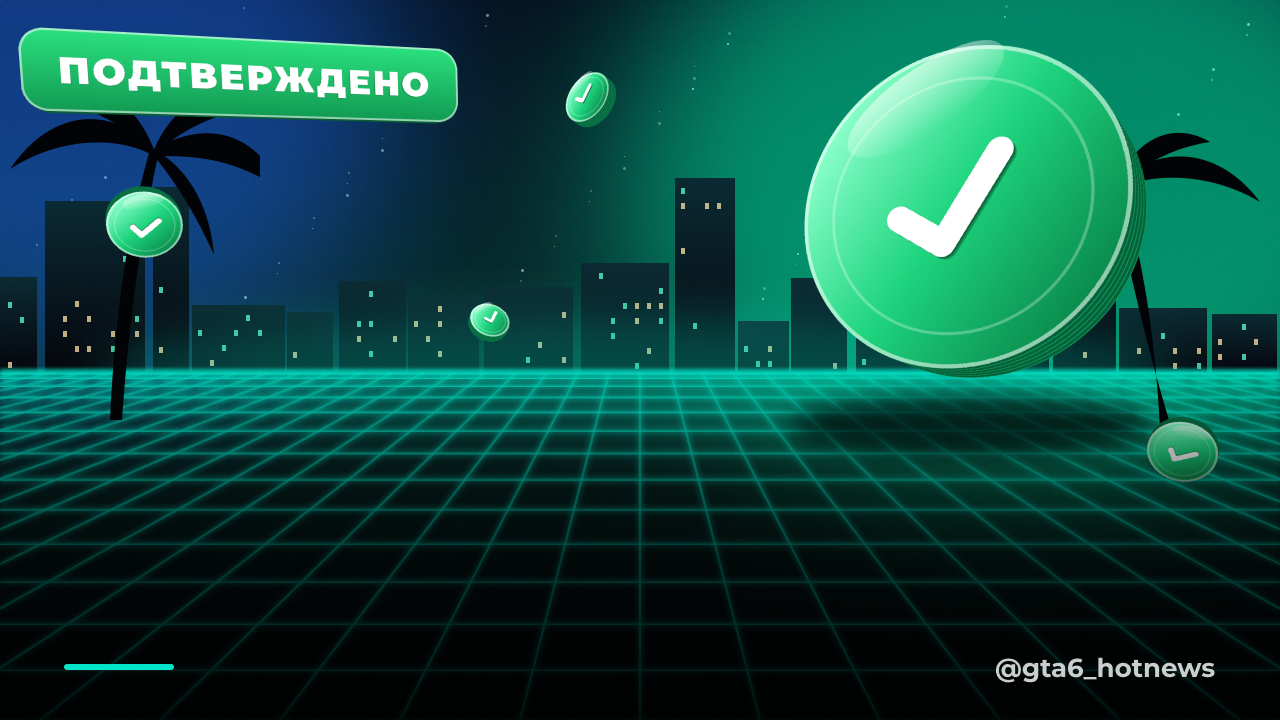
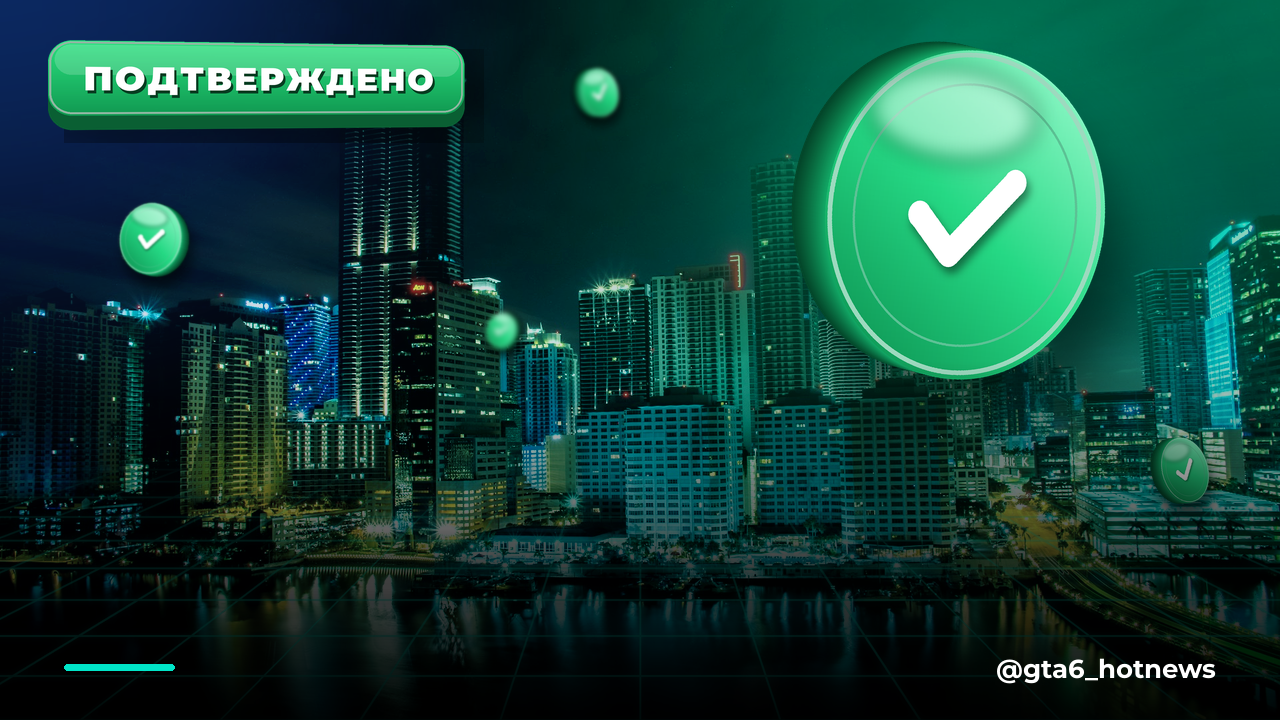
Заставки с настоящим ночным Майами (Unsplash) и 3D-монетами, генератор tools/make_templates.py

diff --git a/tools/make_templates.py b/tools/make_templates.py
@@ -1,0 +1,332 @@
+"""Генератор фонов-заставок для карточек: настоящее фото ночного Майами (прототип Вайс-Сити)
++ цветокоррекция под тип новости + объёмная монета-значок, плашка, неоновая сетка.
+
+Запуск:  python tools/make_templates.py            → assets/templates/{confirmed,rumor,official}.png
+         python tools/make_templates.py --preview  → ещё и out/templates_preview.png с примером заголовка
+
+Фото — Unsplash (бесплатная лицензия, см. assets/bg/SOURCES.md). Заголовок на карточку пишет бот (bot/card.py),
+поэтому низ кадра оставляем тёмным и пустым.
+"""
+from __future__ import annotations
+
+import math
+import sys
+from pathlib import Path
+
+from PIL import Image, ImageChops, ImageDraw, ImageEnhance, ImageFilter, ImageFont, ImageOps
+
+ROOT = Path(__file__).resolve().parents[1]
+W, H = 1280, 720
+S = 3  # суперсэмплинг: рисуем в 3 раза крупнее и уменьшаем — края гладкие
+HORIZON = 455  # где у фото примерно линия воды (после кадрирования)
+
+THEMES = {
+    "confirmed": dict(
+        photo="miami_teal.jpg", y_offset=40, zoom=1.0,
+        duo=("020C10", "0E8F7A", "D8FFF4"), duo_mix=0.45,
+        glow_a="00E5A0", glow_b="1E6BFF", grid="00E5C8",
+        face=("A6FFD6", "26D985", "0A8A4C"), side="05613A", rim="13A866", icon="check",
+        badge=("2BE07F", "119A52"), badge_side="0A5F33", label="ПОДТВЕРЖДЕНО"),
+    "rumor": dict(
+        photo="miami_sunset.jpg", y_offset=150, zoom=1.0,
+        duo=("12040F", "C2386E", "FFD9A8"), duo_mix=0.5,
+        glow_a="FF7A00", glow_b="FF2E88", grid="FF3D7F",
+        face=("FFDCA0", "FF8A1E", "D9480F"), side="8A2E00", rim="C9500F", icon="q",
+        badge=("FF9A3C", "E8590C"), badge_side="8A3200", label="СЛУХ"),
+    "official": dict(
+        photo="miami_brickell.jpg", y_offset=400, zoom=1.45,
+        duo=("0A0703", "A07814", "FFF2C6"), duo_mix=0.55,
+        glow_a="FFC83D", glow_b="6C4CFF", grid="FFD166",
+        face=("FFF6CC", "F5C542", "B07A06"), side="6B4A00", rim="A97A0A", icon="star",
+        badge=("FFD95A", "D49B09"), badge_side="6E4E02", label="ОФИЦИАЛЬНО"),
+}
+
+
+def rgb(h: str) -> tuple[int, int, int]:
+    return tuple(int(h[i:i + 2], 16) for i in (0, 2, 4))
+
+
+def font(size: int, variation: str = "Black") -> ImageFont.FreeTypeFont:
+    f = ImageFont.truetype(str(ROOT / "assets/fonts/Montserrat-Variable.ttf"), size)
+    try:
+        f.set_variation_by_name(variation)
+    except Exception:
+        pass
+    return f
+
+
+def lin_gradient(size, colors, angle_deg=135) -> Image.Image:
+    """Линейный градиент по нескольким цветам под углом."""
+    w, h = size
+    a = math.radians(angle_deg)
+    dx, dy = math.cos(a), math.sin(a)
+    small = Image.new("RGB", (64, 64))
+    px = small.load()
+    stops = [rgb(c) for c in colors]
+    for y in range(64):
+        for x in range(64):
+            t = ((x / 63 - 0.5) * dx + (y / 63 - 0.5) * dy) / (abs(dx) * 0.5 + abs(dy) * 0.5) * 0.5 + 0.5
+            t = min(1, max(0, t)) * (len(stops) - 1)
+            i = min(int(t), len(stops) - 2)
+            f = t - i
+            px[x, y] = tuple(int(stops[i][k] + (stops[i + 1][k] - stops[i][k]) * f) for k in range(3))
+    return small.resize((w, h), Image.BICUBIC)
+
+
+def radial_glow(size, center, radius, color, alpha) -> Image.Image:
+    layer = Image.new("RGBA", size, (0, 0, 0, 0))
+    d = ImageDraw.Draw(layer)
+    cx, cy = center
+    d.ellipse((cx - radius, cy - radius * 0.8, cx + radius, cy + radius * 0.8), fill=rgb(color) + (alpha,))
+    return layer.filter(ImageFilter.GaussianBlur(radius * 0.45))
+
+
+# ---------- фон: фото + цветокоррекция ----------
+def background(th: dict) -> Image.Image:
+    photo = Image.open(ROOT / "assets/bg" / th["photo"]).convert("RGB")
+    scale = W / photo.width * th["zoom"]
+    photo = photo.resize((round(photo.width * scale), round(photo.height * scale)), Image.LANCZOS)
+    x0 = (photo.width - W) // 2
+    img = photo.crop((x0, th["y_offset"], x0 + W, th["y_offset"] + H))
+    # «дуотон»: яркость фото → градиент цветов темы, смешиваем с оригиналом (реализм + единый стиль)
+    lum = ImageOps.grayscale(img)
+    lum = ImageOps.autocontrast(lum, cutoff=1)
+    dark, mid, light = (rgb(c) for c in th["duo"])
+    luts = []
+    for k in range(3):
+        lut = []
+        for v in range(256):
+            t = v / 255
+            if t < 0.5:
+                lut.append(int(dark[k] + (mid[k] - dark[k]) * t * 2))
+            else:
+                lut.append(int(mid[k] + (light[k] - mid[k]) * (t - 0.5) * 2))
+        luts.append(lut)
+    duo = Image.merge("RGB", [lum.point(luts[k]) for k in range(3)])
+    img = Image.blend(img, duo, th["duo_mix"])
+    img = ImageEnhance.Contrast(img).enhance(1.12)
+    img = ImageEnhance.Color(img).enhance(1.25)
+    img = img.convert("RGBA")
+    # цветные свечения (как неон над городом)
+    for glow in (radial_glow((W, H), (950, 120), 420, th["glow_a"], 120),
+                 radial_glow((W, H), (80, 40), 380, th["glow_b"], 100)):
+        img = Image.alpha_composite(img, glow)
+    return img
+
+
+def neon_grid(color: str) -> Image.Image:
+    """Неоновая сетка на воде: линии сходятся к точке на горизонте, к горизонту — тают."""
+    layer = Image.new("RGBA", (W * S, H * S), (0, 0, 0, 0))
+    d = ImageDraw.Draw(layer)
+    c = rgb(color)
+    vx, vy = W * S // 2, (HORIZON - 160) * S
+    top, bottom = HORIZON * S, H * S
+    for i in range(-30, 31):
+        bx = vx + i * 140 * S
+        x_top = vx + (bx - vx) * (top - vy) / (bottom - vy)
+        d.line((x_top, top, bx, bottom), fill=c + (255,), width=2 * S)
+    for k in range(1, 13):
+        y = top + (bottom - top) * (k / 12) ** 2.1
+        d.line((0, y, W * S, y), fill=c + (255,), width=2 * S)
+    layer = layer.resize((W, H), Image.LANCZOS)
+    fade = Image.new("L", (1, H))
+    for y in range(H):
+        fade.putpixel((0, y), 0 if y < HORIZON else int(150 * min(1, (y - HORIZON) / 200)))
+    alpha = ImageChops.multiply(layer.getchannel("A"), fade.resize((W, H)))
+    layer.putalpha(alpha)
+    glow = layer.filter(ImageFilter.GaussianBlur(4))
+    return Image.alpha_composite(glow, layer)
+
+
+# ---------- объёмная монета ----------
+def icon_layer(kind: str, size: int) -> Image.Image:
+    im = Image.new("RGBA", (size, size), (0, 0, 0, 0))
+    d = ImageDraw.Draw(im)
+    s = size / 100
+    if kind == "check":
+        d.line([(24 * s, 52 * s), (43 * s, 70 * s), (77 * s, 32 * s)], fill="white", width=int(13 * s), joint="curve")
+        for x, y in ((24, 52), (77, 32)):
+            r = 6.5 * s
+            d.ellipse((x * s - r, y * s - r, x * s + r, y * s + r), fill="white")
+    elif kind == "star":
+        pts = []
+        for i in range(10):
+            a = -math.pi / 2 + i * math.pi / 5
+            r = 40 if i % 2 == 0 else 17
+            pts.append((50 * s + r * s * math.cos(a), 52 * s + r * s * math.sin(a)))
+        d.polygon(pts, fill="white")
+    else:
+        f = font(int(78 * s))
+        d.text((50 * s, 50 * s), "?", font=f, fill="white", anchor="mm")
+    return im
+
+
+def coin(d: int, th: dict, ry: float, rz: float, thick: float) -> Image.Image:
+    """Монета диаметром d, повёрнута вокруг вертикали на ry градусов (видно ребро), наклон rz."""
+    D = d * S
+    sx = max(0.2, math.cos(math.radians(ry)))
+    fw = int(D * sx)
+    side_dx = math.sin(math.radians(ry)) * thick * S  # куда «уходит» толщина
+    pad = int(abs(side_dx) + D * 0.15)
+    cw, ch = fw + 2 * pad, D + 2 * pad
+    im = Image.new("RGBA", (cw, ch), (0, 0, 0, 0))
+    dr = ImageDraw.Draw(im)
+    fx, fy = pad, pad
+    steps = max(40, int(abs(side_dx)))  # ребро: плотная стопка эллипсов — гладкий цилиндр
+    side, rim = rgb(th["side"]), rgb(th["rim"])
+    for i in range(steps, 0, -1):
+        off = side_dx * i / steps
+        t = i / steps
+        base = tuple(int(side[k] + (rim[k] - side[k]) * (1 - t)) for k in range(3))  # к лицу светлее
+        col = tuple(int(c * (0.7 + 0.3 * (1 - t))) for c in base)
+        dr.ellipse((fx + off, fy + off * 0.15, fx + off + fw, fy + off * 0.15 + D), fill=col + (255,))
+    # лицевая сторона: градиент по маске эллипса
+    mask = Image.new("L", (fw, D), 0)
+    ImageDraw.Draw(mask).ellipse((0, 0, fw - 1, D - 1), fill=255)
+    face = lin_gradient((fw, D), th["face"], 125).convert("RGBA")
+    face.putalpha(mask)
+    fdraw = ImageDraw.Draw(face)
+    lw = max(2, D // 70)
+    fdraw.ellipse((lw // 2, lw // 2, fw - lw, D - lw), outline=(255, 255, 255, 150), width=lw)
+    inset = 0.1
+    fdraw.ellipse((fw * inset, D * inset, fw * (1 - inset), D * (1 - inset)), outline=(255, 255, 255, 80), width=max(1, lw // 2))
+    # блик
+    shine = Image.new("RGBA", (fw, D), (0, 0, 0, 0))
+    ImageDraw.Draw(shine).ellipse((fw * 0.12, D * 0.06, fw * 0.72, D * 0.34), fill=(255, 255, 255, 110))
+    shine = shine.filter(ImageFilter.GaussianBlur(D * 0.03))
+    shine.putalpha(ImageChops.multiply(shine.getchannel("A"), mask))
+    face = Image.alpha_composite(face, shine)
+    # значок: сжимаем по горизонтали так же, как монету, + тень (будто выпуклый)
+    ic = icon_layer(th["icon"], int(D * 0.62)).resize((int(D * 0.62 * sx), int(D * 0.62)), Image.LANCZOS)
+    shadow = Image.new("RGBA", ic.size, (0, 0, 0, 0))
+    shadow.putalpha(ic.getchannel("A").point(lambda v: v * 0.45))
+    ix, iy = (fw - ic.width) // 2, (D - ic.height) // 2
+    face.alpha_composite(shadow.filter(ImageFilter.GaussianBlur(D * 0.012)), (ix + int(D * 0.012), iy + int(D * 0.02)))
+    face.alpha_composite(ic, (ix, iy))
+    im.alpha_composite(face, (fx, fy))
+    im = im.rotate(rz, resample=Image.BICUBIC, expand=True)
+    return im.resize((max(1, im.width // S), max(1, im.height // S)), Image.LANCZOS)
+
+
+def place(base: Image.Image, layer: Image.Image, cx: int, cy: int, blur: float = 0, shadow: bool = True) -> None:
+    if shadow:  # мягкая тень снизу
+        sh = Image.new("RGBA", layer.size, (0, 0, 0, 0))
+        sh.putalpha(layer.getchannel("A").point(lambda v: v * 0.55))
+        sh = sh.filter(ImageFilter.GaussianBlur(max(4, layer.width // 18)))
+        base.alpha_composite(sh, (cx - layer.width // 2 + layer.width // 25, cy - layer.height // 2 + layer.height // 10))
+    if blur:
+        layer = layer.filter(ImageFilter.GaussianBlur(blur))
+    base.alpha_composite(layer, (cx - layer.width // 2, cy - layer.height // 2))
+
+
+# ---------- объёмная плашка ----------
+def perspective_coeffs(src, dst):
+    """Коэффициенты для Image.transform(PERSPECTIVE): точки dst → src."""
+    a, b = [], []
+    for (x, y), (u, v) in zip(dst, src):
+        a.append([x, y, 1, 0, 0, 0, -u * x, -u * y]); b.append(u)
+        a.append([0, 0, 0, x, y, 1, -v * x, -v * y]); b.append(v)
+    n = 8  # метод Гаусса для системы 8×8 (без numpy)
+    for c in range(n):
+        piv = max(range(c, n), key=lambda r: abs(a[r][c]))
+        a[c], a[piv], b[c], b[piv] = a[piv], a[c], b[piv], b[c]
+        for r in range(n):
+            if r != c and a[r][c]:
+                f = a[r][c] / a[c][c]
+                a[r] = [x - f * y for x, y in zip(a[r], a[c])]
+                b[r] -= f * b[c]
+    return [b[i] / a[i][i] for i in range(n)]
+
+
+def badge(th: dict) -> Image.Image:
+    f = font(34 * S)
+    probe = ImageDraw.Draw(Image.new("RGBA", (1, 1)))
+    tw = probe.textlength(th["label"], font=f) + 2 * S * len(th["label"])
+    w, h, depth = int(tw + 64 * S), 76 * S, 14 * S
+    im = Image.new("RGBA", (w + 4 * S, h + depth + 4 * S), (0, 0, 0, 0))
+    d = ImageDraw.Draw(im)
+    for i in range(depth, 0, -S):  # толщина плашки
+        d.rounded_rectangle((0, i, w, h + i), radius=22 * S, fill=rgb(th["badge_side"]) + (255,))
+    face = lin_gradient((w, h), th["badge"], 90).convert("RGBA")
+    m = Image.new("L", (w, h), 0)
+    ImageDraw.Draw(m).rounded_rectangle((0, 0, w - 1, h - 1), radius=22 * S, fill=255)
+    face.putalpha(m)
+    fd = ImageDraw.Draw(face)
+    fd.rounded_rectangle((S, S, w - 2 * S, h - 2 * S), radius=21 * S, outline=(255, 255, 255, 140), width=2 * S)
+    hl = Image.new("RGBA", (w, h), (0, 0, 0, 0))
+    ImageDraw.Draw(hl).rounded_rectangle((6 * S, 4 * S, w - 6 * S, h * 0.45), radius=18 * S, fill=(255, 255, 255, 45))
+    face = Image.alpha_composite(face, hl)
+    x = 32 * S
+    fd = ImageDraw.Draw(face)
+    for dx, dy, col in ((2 * S, 3 * S, (0, 0, 0, 90)), (0, 0, (255, 255, 255, 255))):
+        cx = x + dx
+        for ch in th["label"]:
+            fd.text((cx, h / 2 + dy), ch, font=f, fill=col, anchor="lm")
+            cx += probe.textlength(ch, font=f) + 2 * S
+    im.alpha_composite(face, (0, 0))
+    # лёгкая перспектива: правый край дальше (как поворот на ~20°)
+    try:
+        iw, ih = im.size
+        k = 0.1
+        dst = [(0, 0), (iw, ih * k * 0.6), (iw, ih * (1 - k * 0.4)), (0, ih)]
+        src = [(0, 0), (iw, 0), (iw, ih), (0, ih)]
+        im = im.transform(im.size, Image.PERSPECTIVE, perspective_coeffs(src, dst), Image.BICUBIC)
+    except Exception:
+        pass
+    return im.resize((im.width // S, im.height // S), Image.LANCZOS)
+
+
+# ---------- сборка ----------
+def build(key: str) -> Image.Image:
+    th = THEMES[key]
+    img = background(th)
+    img = Image.alpha_composite(img, neon_grid(th["grid"]))
+    # дальние монетки — размытые (глубина резкости), ближняя большая — резкая
+    for (cx, cy, d, ry, rz, blur) in ((600, 92, 50, -40, 12, 2.2), (500, 330, 38, 35, -18, 2.8),
+                                      (150, 238, 72, 30, -10, 0.8), (1185, 470, 66, -45, 16, 0)):
+        place(img, coin(d, th, ry, rz, d * 0.22), cx, cy, blur)
+    big = coin(330, th, -32, -6, 64)
+    img = Image.alpha_composite(img, radial_glow((W, H), (965, 215), 230, th["glow_a"], 110))
+    place(img, big, 965, 215)
+    b = badge(th)
+    place(img, b, 48 + b.width // 2, 40 + b.height // 2)
+    # тёмный низ под заголовок
+    shade = Image.new("L", (1, H))
+    for y in range(H):
+        t = y / H
+        a = 0 if t < 0.5 else (0.72 * (t - 0.5) / 0.28 if t < 0.78 else 0.72 + 0.22 * (t - 0.78) / 0.22)
+        shade.putpixel((0, y), int(255 * min(0.94, a)))
+    dark = Image.new("RGBA", (W, H), (0, 0, 0, 255))
+    dark.putalpha(shade.resize((W, H)))
+    img = Image.alpha_composite(img, dark)
+    d = ImageDraw.Draw(img)
+    d.rounded_rectangle((64, 664, 174, 670), radius=3, fill=rgb(th["grid"]) + (255,))
+    d.text((1216, 668), "@gta6_hotnews", font=font(26, "Bold"), fill=(255, 255, 255, 205), anchor="rm")
+    return img.convert("RGB")
+
+
+def main() -> None:
+    out_dir = ROOT / "assets/templates"
+    out_dir.mkdir(parents=True, exist_ok=True)
+    for key in THEMES:
+        build(key).save(out_dir / f"{key}.png", optimize=True)
+        print(f"готово: assets/templates/{key}.png")
+    if "--preview" in sys.argv:
+        sys.path.insert(0, str(ROOT))
+        from bot.card import card_png
+        from bot.util import load_config
+        import io
+        cfg = load_config()
+        demo = [("confirmed", "high", "GTA 6 забрала 8 номинаций на TGA"),
+                ("rumor", "rumor", "Инсайдер: GTA 6 выйдет на ПК уже весной"),
+                ("confirmed", "official", "Rockstar выпустила первый патч для GTA 6")]
+        sheet = Image.new("RGB", (W, H * 3))
+        for i, (kind, trust, title) in enumerate(demo):
+            sheet.paste(Image.open(io.BytesIO(card_png(title, kind, cfg, trust=trust))), (0, H * i))
+        (ROOT / "out").mkdir(exist_ok=True)
+        sheet.save(ROOT / "out/templates_preview.png")
+        print("превью: out/templates_preview.png")
+
+
+if __name__ == "__main__":
+    main()

diff --git a/README.md b/README.md
@@ -47,7 +47,21 @@ YouTube по запросам из `config.yaml` → `clips.youtube.queries`. Б
 `YOUTUBE_API_KEY` (Google Cloud → YouTube Data API v3). Без ключа источник просто пропускается.
 Reddit без ключа отвечает 403 — не используется.
 
-## Карточки (Figma)
+## Карточки
+
+Фон карточки — **настоящее фото ночного Майами** (прототип Вайс-Сити), подкрашенное под тип новости:
+изумрудный — ПОДТВЕРЖДЕНО, оранжево-розовый — СЛУХ, золотой — ОФИЦИАЛЬНО. Сверху — объёмная монета-значок
+(✓ / ? / ★), плашка и неоновая сетка на воде. Собирает их скрипт:
+
+```bash
+.venv\Scripts\python tools/make_templates.py --preview
+```
+
+Он пишет `assets/templates/*.png` и превью с примером заголовка в `out/templates_preview.png`.
+Фото и лицензии — `assets/bg/SOURCES.md`. Старые варианты из Figma лежат в `assets/templates/v1/`
+и в Figma-файле (ряд «Card3D / …»).
+
+## Карточки (Figma, старый способ)
 
 Дизайн карточек живёт в Figma: файл **«GTA 6 Hot News — Card Templates»** (в твоих черновиках Figma).
 Там три шаблона 1280×720: **ПОДТВЕРЖДЕНО**, **СЛУХ**, **ОФИЦИАЛЬНО** (для новостей Rockstar/Take-Two).

diff --git a/CLAUDE.md b/CLAUDE.md
@@ -25,7 +25,8 @@ Gemini смотрит видео и пишет короткую подпись (
 - `bot/fetch.py` — загрузка RSS/страниц, фильтр по ключевым словам, текст статьи.
 - `bot/dedupe.py` — state.json, дедуп по URL/хэшу заголовка, смысловая похожесть за 48 ч.
 - `bot/llm.py` — Gemini, системный промпт из config.yaml, JSON-схема, валидация.
-- `bot/card.py` — карточка 1280x720: шаблон из Figma (`assets/templates/`) + заголовок Unbounded; запасной вариант — отрисовка кодом.
+- `bot/card.py` — карточка 1280x720: фон-шаблон (`assets/templates/`) + заголовок Unbounded; запасной вариант — отрисовка кодом.
+- `tools/make_templates.py` — собирает шаблоны: фото Майами (`assets/bg/`, Unsplash) + цветокоррекция + 3D-монета/плашка/сетка.
 - `bot/clips.py` — видео: Twitch/YouTube API, yt-dlp, подпись Gemini по самому видео, черновики и публикация.
 - `bot/moderation.py` — черновики в личку, кнопки, расписание, автоопределение канала (my_chat_member).
 - `bot/publish.py` — Telegram sendPhoto, HTML-подпись, правила публикации и лимиты.

diff --git a/PROGRESS.md b/PROGRESS.md
@@ -151,3 +151,11 @@
 - Цепочки: разбор 11 моделей, текст 7, видео 7. max_calls_per_run 5 → 8.
 - [ ] Пользователю добавить ключи (необязательно, но сильно больше квот): GEMINI_API_KEY_2 (AI Studio, проект gta6-bot),
   MISTRAL_API_KEY (console.mistral.ai, план Experiment), OPENROUTER_API_KEY (openrouter.ai/keys).
+
+### 2026-11-19 (ночь, позже) — заставки с настоящим Майами
+- Пользователь: «вставь реальный город, а то видно, что квартиры нарисованы кодом».
+- Фото ночного Майами с Unsplash (бесплатная лицензия): `assets/bg/` + `SOURCES.md`.
+- `tools/make_templates.py` (Pillow, без Figma — Figma Starter упёрся в лимит): кадрирование, «дуотон» под тему,
+  свечения, неоновая сетка на воде, объёмная монета (гладкое ребро-цилиндр, блик, выпуклый значок, тень),
+  дальние монетки размыты (глубина резкости), плашка с толщиной и наклоном. Все три шаблона пересобраны,
+  в т.ч. «Слух», который не успели выгрузить из Figma.

diff --git a/assets/bg/SOURCES.md b/assets/bg/SOURCES.md
@@ -1,0 +1,14 @@
+# Фото для заставок
+
+Все фото — с Unsplash, [лицензия Unsplash](https://unsplash.com/license): бесплатно, в том числе для
+коммерческого использования, указывать автора не обязательно (но приятно).
+
+| Файл | Где используется | Источник |
+|---|---|---|
+| `miami_teal.jpg` | ПОДТВЕРЖДЕНО | https://unsplash.com/photos/P4tbpnpz61Y |
+| `miami_sunset.jpg` | СЛУХ | https://unsplash.com/photos/dS2L5bKTSaM |
+| `miami_brickell.jpg` | ОФИЦИАЛЬНО | https://unsplash.com/photos/QtTHy9MUVoQ |
+
+Заставки собирает `tools/make_templates.py` (фото + цветокоррекция + 3D-монета, плашка, сетка).
+Поменять фото: положи новое сюда, укажи его в `THEMES` в скрипте и запусти
+`python tools/make_templates.py --preview` (превью — `out/templates_preview.png`).
